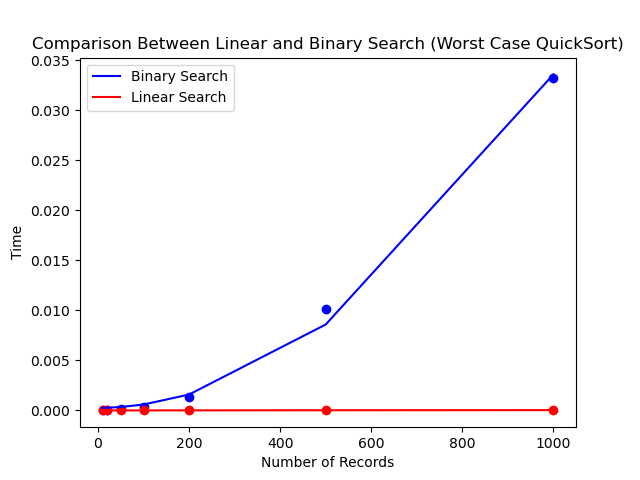
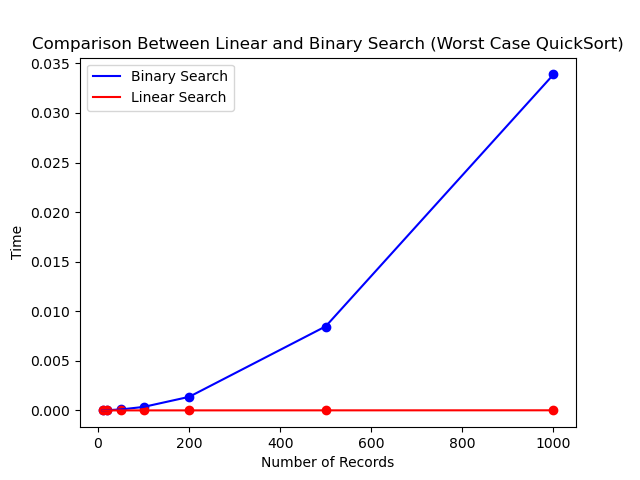
updates

diff --git a/ex6.py b/ex6.py
@@ -23,11 +23,15 @@ def partition(array, low, high):
   
  
 def quicksort(array, low, high):
-    if low < high:
-
-        pi = partition(array, low, high)
-        quicksort(array, low, pi - 1)
-        quicksort(array, pi + 1, high)
+    while(low<high):
+        pi = partition(array,low,high)
+        if (pi-low <= high-(pi+1)):
+            quicksort(array,low,high)
+            low = pi + 1
+        else:
+            quicksort(array,pi+1,high)
+            high=pi
+    
 
 def linear_search(arr, target):
     for i in range(len(arr)):
@@ -55,17 +59,18 @@ def binary_search_and_quicksort(arr, target):
 
 if __name__ == "__main__":
 
+    #2
     arr = [k for k in range(1000)]
     target = random.randint(0,999)
     linearTimes = []
     binaryTimes = []
     for i in range(0,100):
         random.shuffle(arr)
-        tm = timeit.timeit("linear_search(arr, target)", setup="from __main__ import linear_search, arr, target", number=50)            
-        linearTimes.append(tm/50)
+        tm = timeit.timeit("linear_search(arr, target)", setup="from __main__ import linear_search, arr, target", number=1)            
+        linearTimes.append(tm)
 
-        tm = timeit.timeit("binary_search_and_quicksort(arr, target)", setup="from __main__ import binary_search_and_quicksort, arr, target", number=50)                        
-        binaryTimes.append(tm/50)
+        tm = timeit.timeit("binary_search_and_quicksort(arr, target)", setup="from __main__ import binary_search_and_quicksort, arr, target", number=1)                        
+        binaryTimes.append(tm)
 
     print("Average time for binary serach time is", sum(binaryTimes)/ len(binaryTimes))
     print("Average time for Linear serach time is", sum(linearTimes)/ len(linearTimes), "\n")

diff --git a/ex6_worst.py b/ex6_worst.py
@@ -23,11 +23,12 @@ def partition(array, low, high):
   
  
 def quicksort(array, low, high):
-    if low < high:
+  if low < high:
+    pi = partition(array, low, high)
 
-        pi = partition(array, low, high)
-        quicksort(array, low, pi - 1)
-        quicksort(array, pi + 1, high)
+    quicksort(array, low, pi - 1)
+
+    quicksort(array, pi + 1, high)
 
 def linear_search(arr, target):
     for i in range(len(arr)):
@@ -56,6 +57,23 @@ def binary_search(arr, target):
 
 if(__name__ == "__main__"):
     #5
+
+    arr = [k for k in range(1000, 0 ,-1)]
+    target = random.randint(0,999)
+    linearTimes = []
+    binaryTimes = []
+    for i in range(0,100):
+
+        tm = timeit.timeit("linear_search(arr, target)", setup="from __main__ import linear_search, arr, target", number=1)            
+        linearTimes.append(tm)
+
+        tm = timeit.timeit("binary_search_and_quicksort(arr.copy(), target)", setup="from __main__ import binary_search_and_quicksort, arr, target", number=1)                        
+        binaryTimes.append(tm)
+
+    print("Average time for binary serach time is", sum(binaryTimes)/ len(binaryTimes))
+    print("Average time for Linear serach time is", sum(linearTimes)/ len(linearTimes), "\n")
+
+
     vectorSizes = [10,20,50,100,200,500,1000]
     binaryTimes = []
     linearTimes = []

diff --git a/ex5.py b/ex5.py
@@ -64,7 +64,6 @@ def insertionSort(arr, n):
 vector_sizes = [1000, 2000, 3000, 4000, 6000, 8000, 16000]
 binaryTimes = []
 regularTimes = []
-sizes = []
 
 for size in vector_sizes:
     arr = [random.randint(1, size*10) for _ in range(size)]  # Create a random vector
